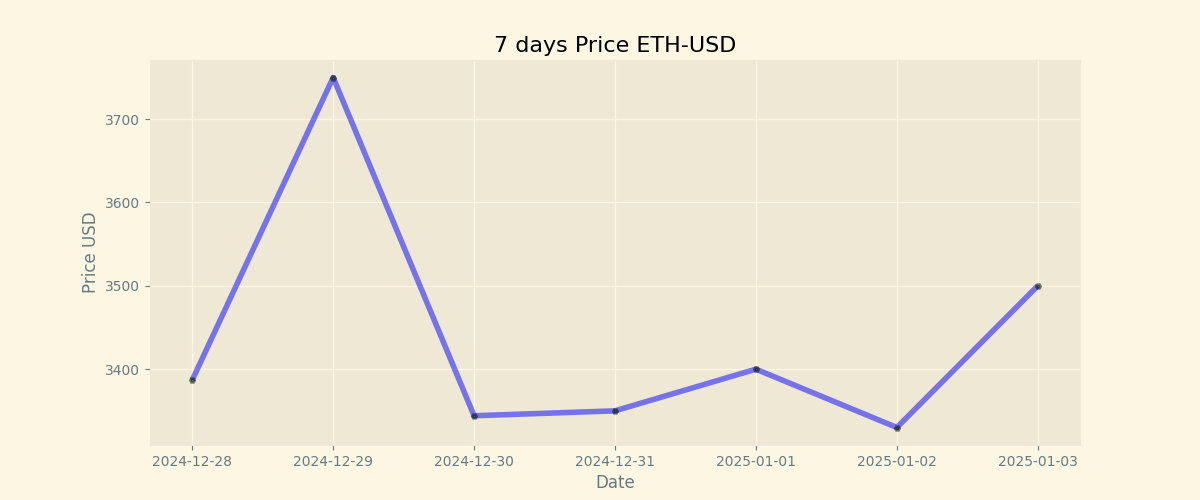
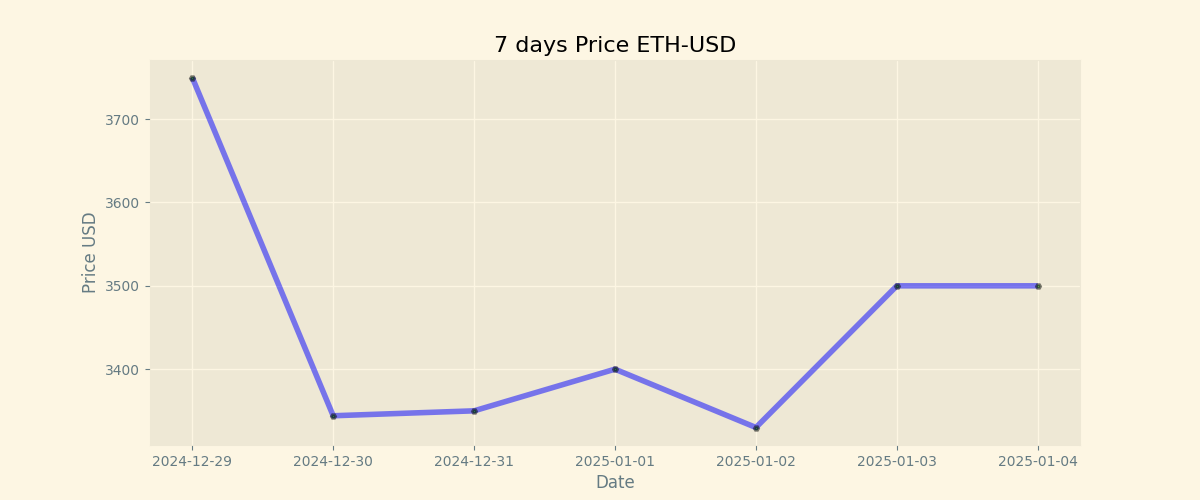
Duty Updates 2025-01-04

diff --git a/README.md b/README.md
@@ -9,8 +9,8 @@
 
 | Currency | Price           |
 | -------- | --------------- |
-| **BTC**  | **$ 98000.0** |
-| **ETH**  | **$ 3499.99** |
+| **BTC**  | **$ 96399.0** |
+| **ETH**  | **$ 3500.0** |
 
 ## BTC chart
 
